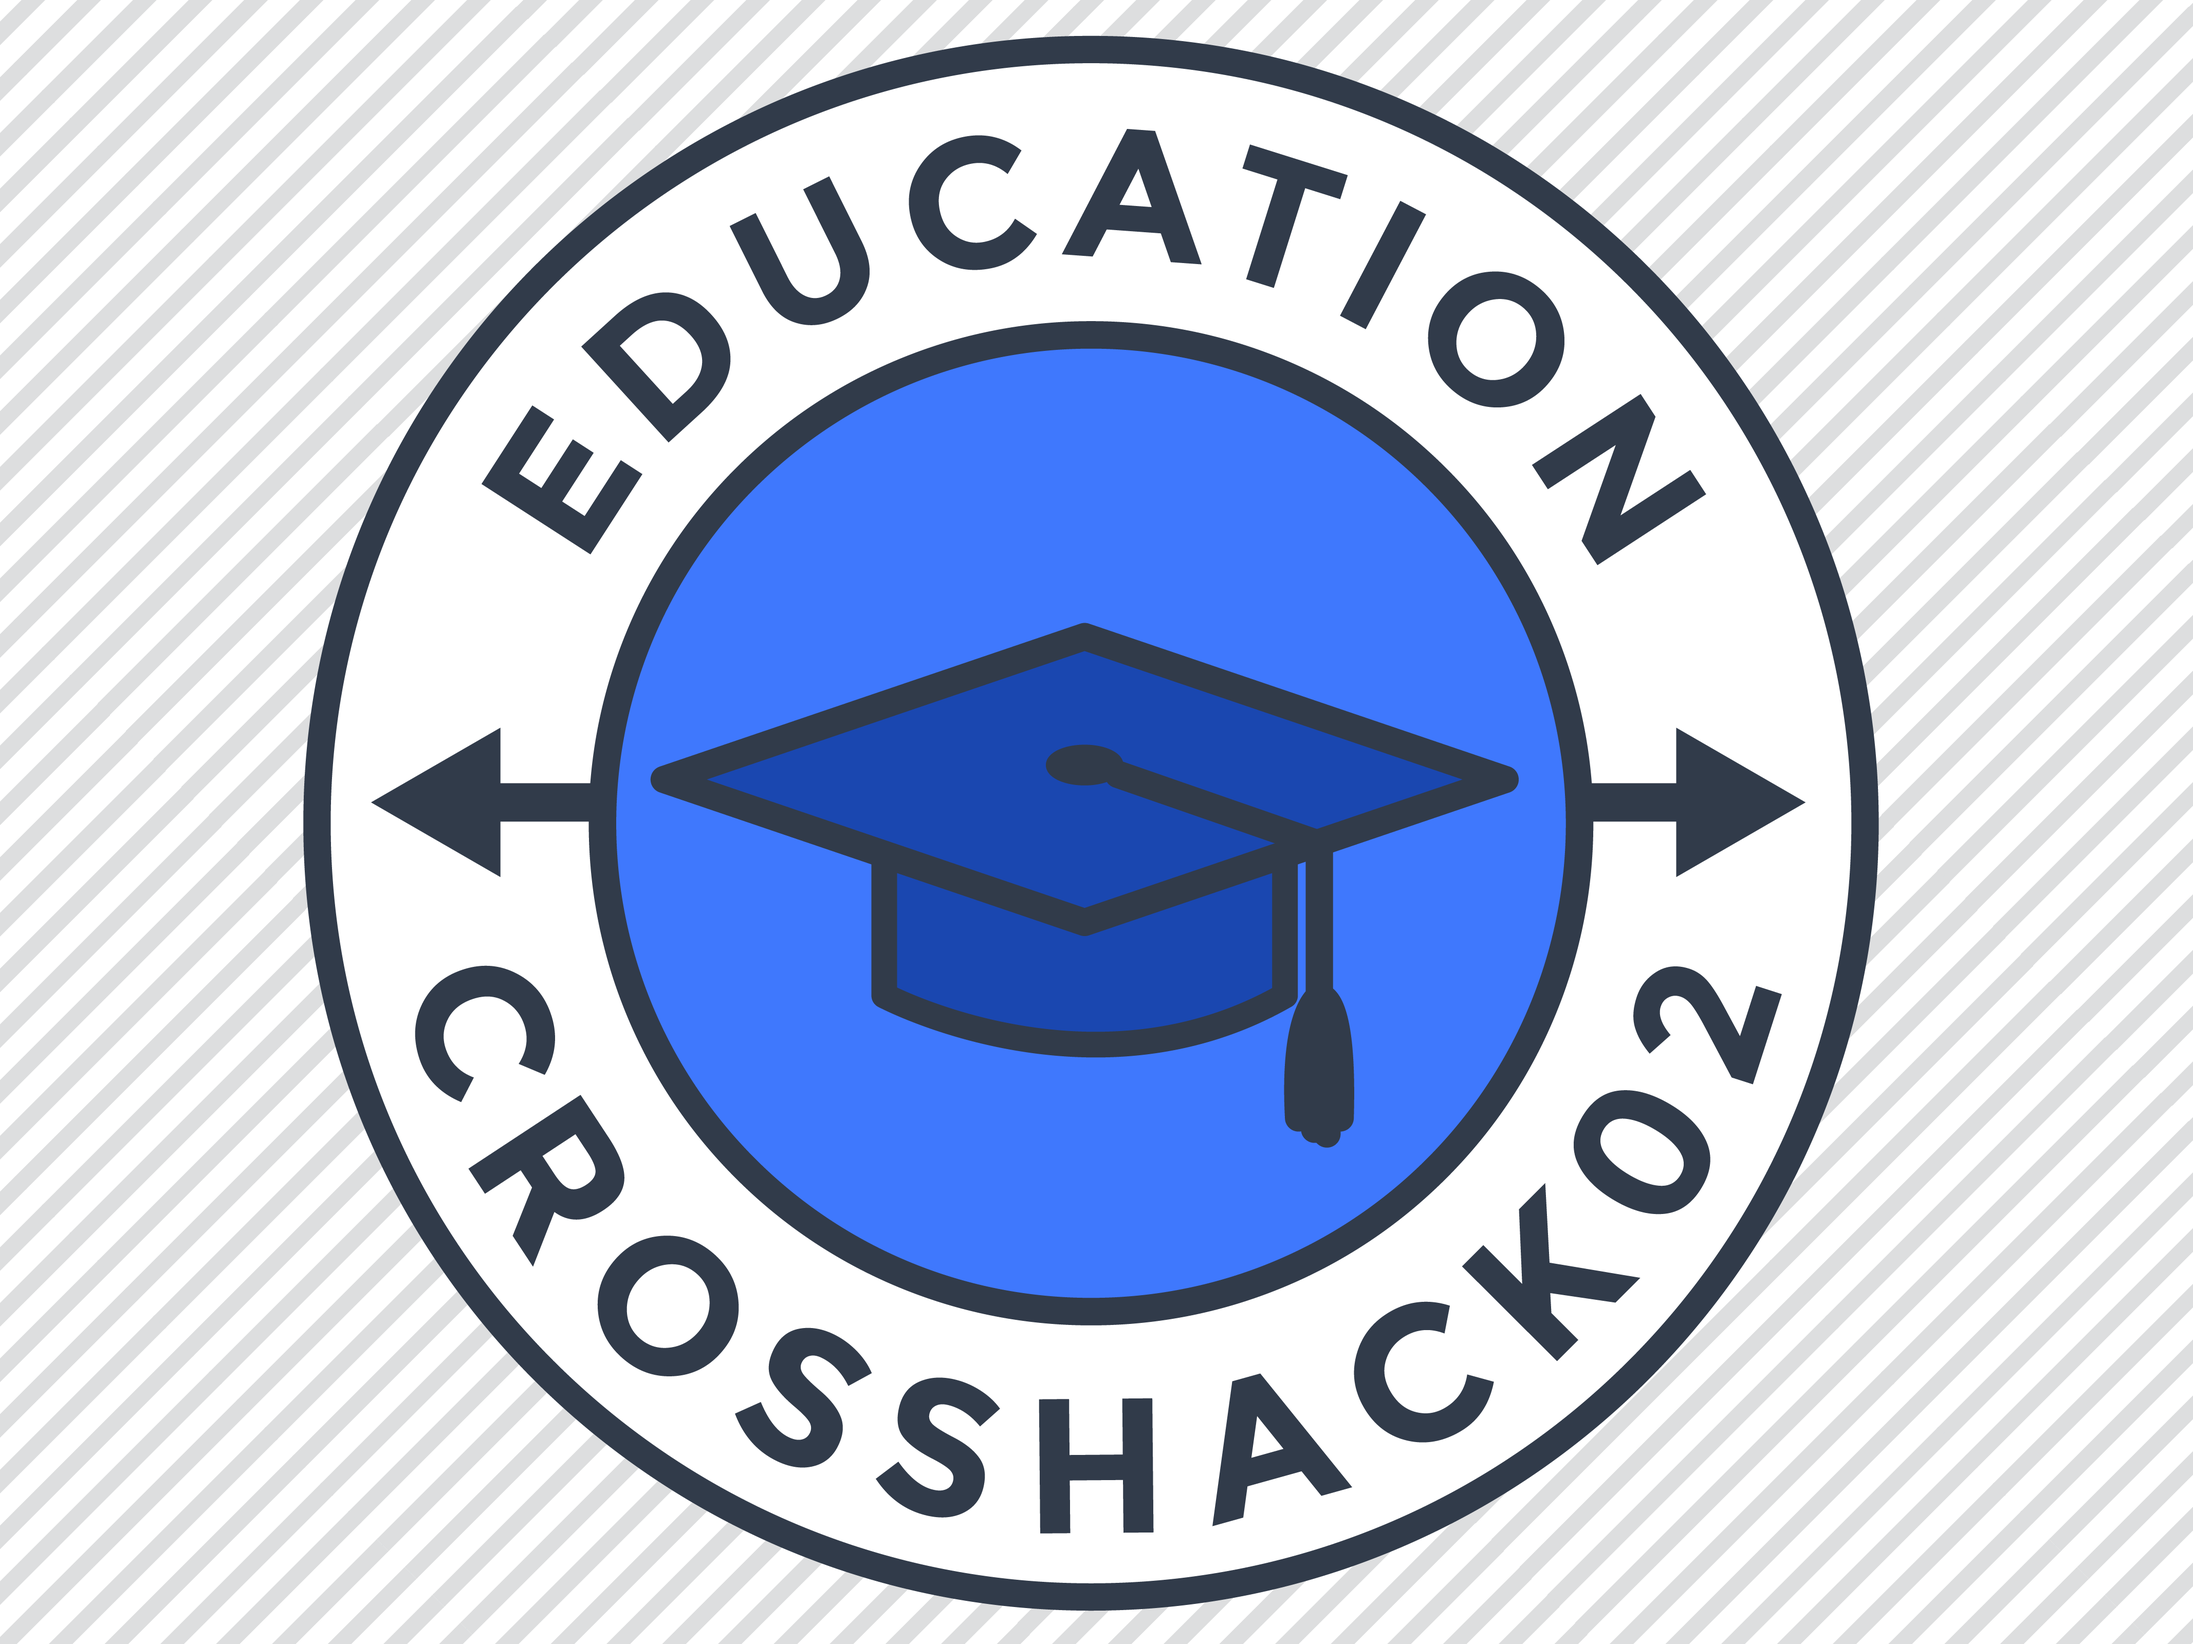
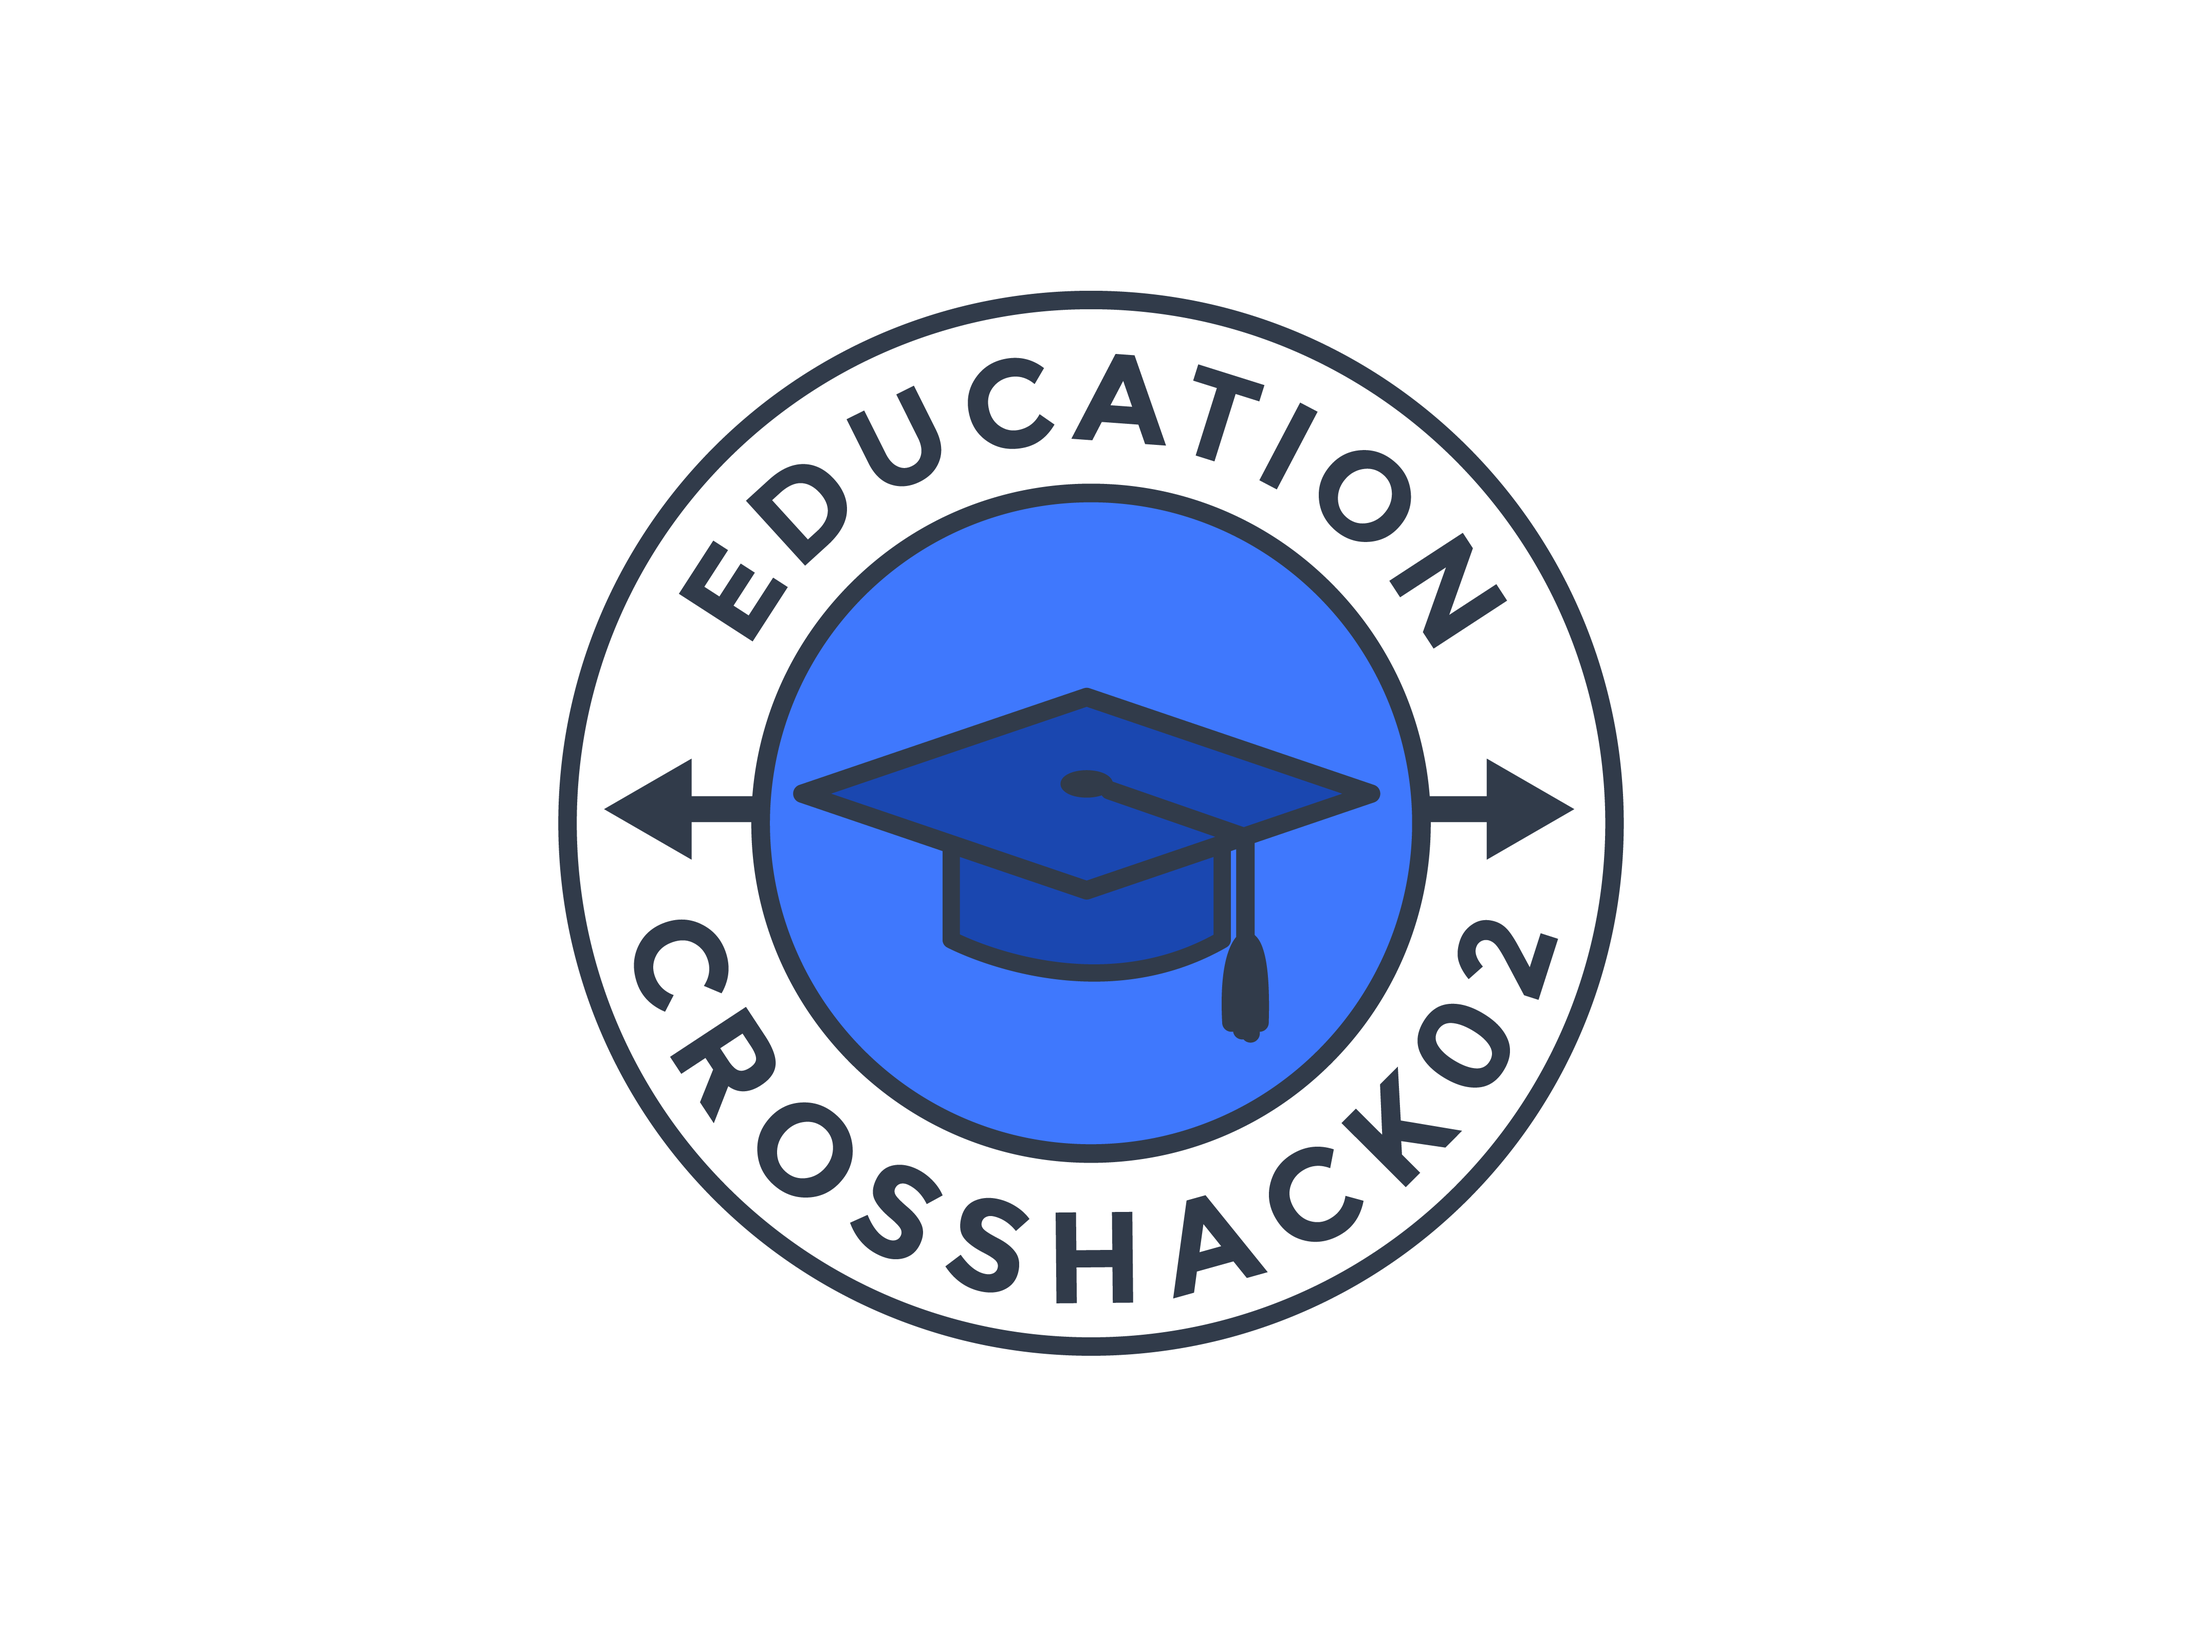
Editing CrossHack02 monitor image
Also removing styling that was leftover from main page

diff --git a/crosshack2.html b/crosshack2.html
@@ -17,7 +17,7 @@
 
 <!----INTRO---->
   <div id="crosshack">
-    <img id="intropic" src="images/monitor.png"> 
+    <img id="" src="images/monitor.png"> 
    </div>	  
   <!----FOOTER---->  
 <!--

diff --git a/screen.css b/screen.css
@@ -232,8 +232,7 @@ ul {
 		
 /* CrossHack styles */
 #crosshack img {
-	width: 100%;
-	height: 100%;
+	height: 600px;
 }
 
 		
